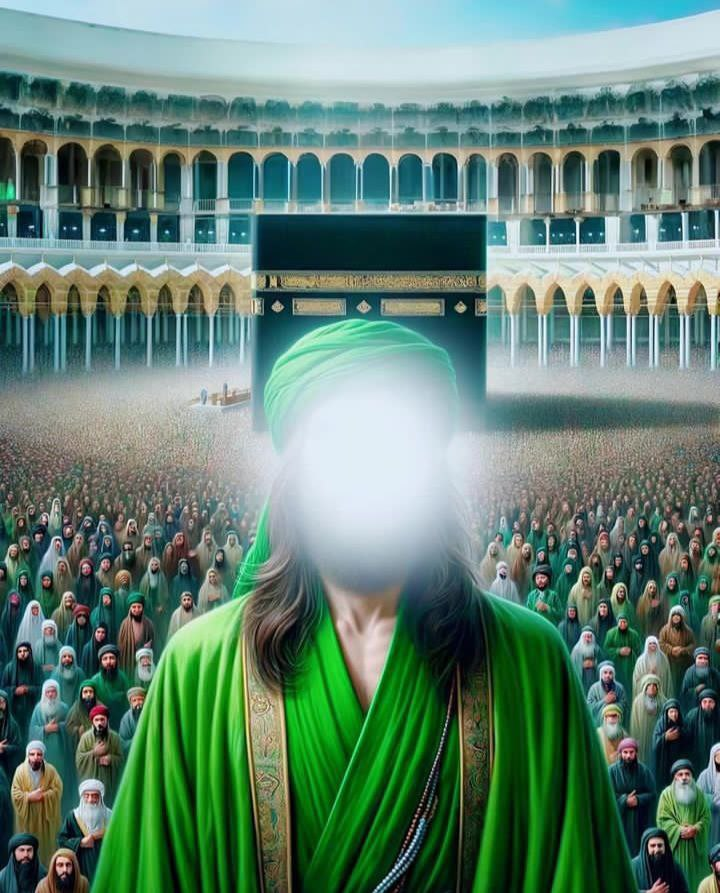
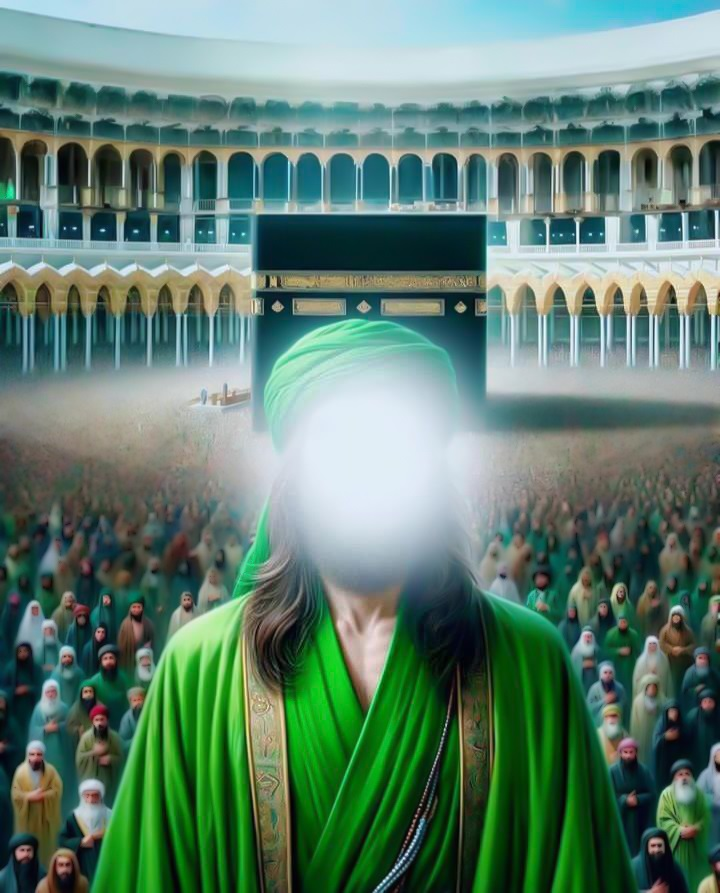
upgrade project

diff --git a/src/components/home/mainSection/rise_of_divine_reign/index.tsx b/src/components/home/mainSection/rise_of_divine_reign/index.tsx
@@ -12,7 +12,11 @@ const RiseOfDivineReign = ({ scrollCount }: { scrollCount: number }) => {
 
   useEffect(() => {
     if (scrollCount == 3) {
-      setActive(true);
+      setTimeout(() => {
+        setActive(true);
+      }, 500);
+    } else {
+      setActive(false);
     }
   }, [scrollCount]);
   return (
@@ -60,18 +64,18 @@ const RiseOfDivineReign = ({ scrollCount }: { scrollCount: number }) => {
                   }}
                 ></div>
                 <div className="content-inner w-[500px] ms-[39px] relative z-20">
-                  <MainSectionTitle lang="en">
+                  <MainSectionTitle active={active} lang="en">
                     Rise of Divine Reign
                   </MainSectionTitle>
                   <div className="w-[480px] description mt-1">
                     <MainSectionDescription lang="en">
-                      After the Day of Resurrection, a narrow bridge extends
-                      over Hell, which only those whose essence is filled with
-                      the light of God and the Wilayah of Ahl al-Bayt (peace be
-                      upon them) will cross. Those among the people of
-                      monotheism who slip on it will be punished and then
-                      interceded for, but those whose hearts are devoid of the
-                      light of the Wilayah will fall into eternal damnation.
+                      The advent of the final Divine Proof and Guardian. The
+                      commencement of the absolute reign of the Purified
+                      Household on earth; the everlasting establishment of God’s
+                      sovereignty over all creation; the fulfillment of all
+                      anticipation; the unveiling of humanity’s long-concealed
+                      mysteries; the dawn of an era of ultimate perfection and
+                      transcendent beauty.
                     </MainSectionDescription>
                   </div>
                   <Button lang="en" />
@@ -90,7 +94,7 @@ const RiseOfDivineReign = ({ scrollCount }: { scrollCount: number }) => {
                   }}
                 >
                   <Image
-                    src="/images/Rise of Divine Reign/01.jpg"
+                    src="/images/Rise of Divine Reign/02.jpg"
                     alt="rise-of-rivine-reign"
                     objectFit="cover"
                     fill

diff --git a/src/components/home/mainSection/suspended_house/index.tsx b/src/components/home/mainSection/suspended_house/index.tsx
@@ -12,7 +12,11 @@ const SuspendedHouse = ({ scrollCount }: { scrollCount: number }) => {
 
   useEffect(() => {
     if (scrollCount == 4) {
-      setActive(true);
+      setTimeout(() => {
+        setActive(true);
+      }, 500);
+    } else {
+      setActive(false);
     }
   }, [scrollCount]);
   return (
@@ -60,7 +64,7 @@ const SuspendedHouse = ({ scrollCount }: { scrollCount: number }) => {
                   }}
                 ></div>
                 <div className="content-inner w-[500px] ms-[39px] relative z-20">
-                  <MainSectionTitle lang="en">
+                  <MainSectionTitle active={active} lang="en">
                     The Suspended House
                   </MainSectionTitle>
                   <div className="w-[480px] description mt-1">
@@ -89,7 +93,7 @@ const SuspendedHouse = ({ scrollCount }: { scrollCount: number }) => {
                   }}
                 >
                   <Image
-                    src="/images/The Suspended House/01.png"
+                    src="/images/The Suspended House/02.jpg"
                     alt="suspended-house"
                     objectFit="cover"
                     fill

diff --git a/src/components/home/mainSection/eternal_fall/index.tsx b/src/components/home/mainSection/eternal_fall/index.tsx
@@ -12,7 +12,11 @@ const EternalFall = ({ scrollCount }: { scrollCount: number }) => {
 
   useEffect(() => {
     if (scrollCount == 6) {
-      setActive(true);
+      setTimeout(() => {
+        setActive(true);
+      }, 500);
+    } else {
+      setActive(false);
     }
   }, [scrollCount]);
   return (
@@ -60,7 +64,9 @@ const EternalFall = ({ scrollCount }: { scrollCount: number }) => {
                   }}
                 ></div>
                 <div className="content-inner w-[500px] ms-[39px] relative z-20">
-                  <MainSectionTitle lang="en">Eternal Fall</MainSectionTitle>
+                  <MainSectionTitle active={active} lang="en">
+                    Eternal Fall
+                  </MainSectionTitle>
                   <div className="w-[480px] description mt-1">
                     <MainSectionDescription lang="en">
                       After the Day of Resurrection, a narrow bridge extends

diff --git a/src/components/home/mainSection/index.tsx b/src/components/home/mainSection/index.tsx
@@ -3,9 +3,11 @@ import Typography from "@/components/layout/typography";
 const MainSectionTitle = ({
   children,
   lang,
+  active,
 }: {
   children: React.ReactNode;
   lang: "ar" | "fa" | "en";
+  active: boolean;
 }) => {
   return (
     <section className="gradient-text-wrapper">
@@ -18,9 +20,13 @@ const MainSectionTitle = ({
       </div>
       <div
         className={`gradient-text-overlay text-[40px] text-center ${
-          lang == "fa" || lang == "ar"
-            ? "yekan-black gradient-text-overlay-rtl"
-            : "biotif-bold gradient-text-overlay-ltr"
+          lang == "fa" || lang == "ar" ? "yekan-black" : "biotif-bold"
+        } ${
+          active && lang == "en"
+            ? "gradient-text-overlay-ltr"
+            : active && (lang == "fa" || lang == "ar")
+            ? "gradient-text-overlay-rtl"
+            : ""
         }`}
       >
         {children}

diff --git a/src/components/home/mainSection/fourteen_infallibles/index.tsx b/src/components/home/mainSection/fourteen_infallibles/index.tsx
@@ -12,7 +12,11 @@ const FourteenInfallibles = ({ scrollCount }: { scrollCount: number }) => {
 
   useEffect(() => {
     if (scrollCount == 2) {
-      setActive(true);
+      setTimeout(() => {
+        setActive(true);
+      }, 500);
+    } else {
+      setActive(false);
     }
   }, [scrollCount]);
   return (
@@ -60,7 +64,7 @@ const FourteenInfallibles = ({ scrollCount }: { scrollCount: number }) => {
                   }}
                 ></div>
                 <div className="content-inner w-[500px] ms-[39px] relative z-20">
-                  <MainSectionTitle lang="en">
+                  <MainSectionTitle active={active} lang="en">
                     The Fourteen Infallibles
                   </MainSectionTitle>
                   <div className="w-[480px] description mt-1">

diff --git a/src/components/home/mainSection/day_of_judgment/index.tsx b/src/components/home/mainSection/day_of_judgment/index.tsx
@@ -12,7 +12,11 @@ const DayOfJudgment = ({ scrollCount }: { scrollCount: number }) => {
 
   useEffect(() => {
     if (scrollCount == 5) {
-      setActive(true);
+      setTimeout(() => {
+        setActive(true);
+      }, 500);
+    } else {
+      setActive(false);
     }
   }, [scrollCount]);
   return (
@@ -60,7 +64,7 @@ const DayOfJudgment = ({ scrollCount }: { scrollCount: number }) => {
                   }}
                 ></div>
                 <div className="content-inner w-[500px] ms-[39px] relative z-20">
-                  <MainSectionTitle lang="en">
+                  <MainSectionTitle active={active} lang="en">
                     The Day of Judgment
                   </MainSectionTitle>
                   <div className="w-[480px] description mt-1">

diff --git a/src/components/home/mainSection/story_of_soil/index.tsx b/src/components/home/mainSection/story_of_soil/index.tsx
@@ -12,7 +12,11 @@ const StoryOfSoil = ({ scrollCount }: { scrollCount: number }) => {
 
   useEffect(() => {
     if (scrollCount == 1) {
-      setActive(true);
+      setTimeout(() => {
+        setActive(true);
+      }, 500);
+    } else {
+      setActive(false);
     }
   }, [scrollCount]);
   return (
@@ -60,7 +64,7 @@ const StoryOfSoil = ({ scrollCount }: { scrollCount: number }) => {
                   }}
                 ></div>
                 <div className="content-inner w-[500px] ms-[39px] relative z-20">
-                  <MainSectionTitle lang="en">
+                  <MainSectionTitle active={active} lang="en">
                     The Story of Soil
                   </MainSectionTitle>
                   <div className="w-[480px] description mt-1">

diff --git a/src/lib/fakeFetch.ts b/src/lib/fakeFetch.ts
@@ -1,0 +1,26 @@
+import { useState } from "react";
+
+const baseUrl = "https://localhost:3000";
+
+const fetchDataBySlug = () => {
+  const [active, setActive] = useState<boolean>(false);
+  const [data, setData] = useState<any>(null);
+
+  fetch("localhost:3000")
+    .then((res) => {
+      setData(res.json());
+    })
+    .then((data) => {
+      return data;
+    });
+};
+
+const checkIsApiGet = (url: string) => {
+  if (url.includes("localhost:3000")) {
+    return true;
+  } else {
+    return false;
+  }
+};
+
+export { fetchDataBySlug, checkIsApiGet };

diff --git a/src/sass/globals.scss b/src/sass/globals.scss
@@ -20,7 +20,7 @@ $bg-secondary: #ead6b2;
 $bg-tertiary: #ffe4bf;
 $bg-linear: linear-gradient(135deg, #191919, #292b2e);
 $line-bg: linear-gradient(to bottom, #f8c279, #ac8654, #151616);
-$bg-overlay-1: linear-gradient(to bottom, #151616, #15161600, #151616);
+$bg-overlay-1: linear-gradient(to bottom, #15161600, #15161638, #151616);
 $button-hover: rgba(240, 197, 139, 0.05);
 
 $border-primary: rgba(255, 243, 226, 0.25);

diff --git a/src/styles/globals.css b/src/styles/globals.css
@@ -43,7 +43,7 @@
 }
 
 .bg-overlay-1 {
-  background: linear-gradient(to bottom, #151616, rgba(21, 22, 22, 0), #151616);
+  background: linear-gradient(to bottom, rgba(21, 22, 22, 0), rgba(21, 22, 22, 0.2196078431), #151616);
 }
 
 .button-hover .icon-wrapper {
